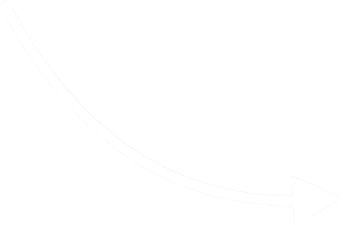
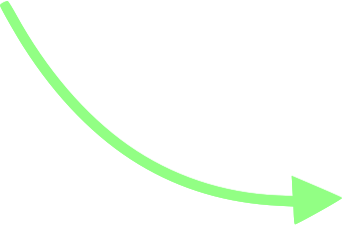
add slideshow, use better host images

Changed region(s): [[0.0, 0.0, 1.0, 0.9956]]

diff --git a/website/assets/js/pages/imagine/mdm-demo.page.js b/website/assets/js/pages/imagine/mdm-demo.page.js
@@ -3,7 +3,7 @@ parasails.registerPage('mdm-demo', {
   //  ║║║║║ ║ ║╠═╣║    ╚═╗ ║ ╠═╣ ║ ║╣
   //  ╩╝╚╝╩ ╩ ╩╩ ╩╩═╝  ╚═╝ ╩ ╩ ╩ ╩ ╚═╝
   data: {
-    demoStage: 2,
+    demoStage: 0,
     startingPositons: {
       fileOne: { top: 50, left: 50},
       fileTwo: { top: 200, left: 50},
@@ -13,6 +13,7 @@ parasails.registerPage('mdm-demo', {
       hostOne: 0,
       hostTwo: 0,
       hostThree: 0,
+      gitOps: 0,
     },
     dragElements:{
       fileOne: undefined,
@@ -34,6 +35,11 @@ parasails.registerPage('mdm-demo', {
     gameEndsAt: undefined,
     timeLeft: 25,
     showDeployingMsg: false,
+    formData: {},
+    formErrors: {},
+    formRules: {},
+    syncing: false,
+    cloudError: false,
   },
 
   //  ╦  ╦╔═╗╔═╗╔═╗╦ ╦╔═╗╦  ╔═╗
@@ -44,6 +50,9 @@ parasails.registerPage('mdm-demo', {
   },
   mounted: async function() {
     this.dragContainer = document.getElementById("dragContainer");
+    $('.carousel').carousel({
+      interval: 40000
+    })
   },
 
   //  ╦╔╗╔╔╦╗╔═╗╦═╗╔═╗╔═╗╔╦╗╦╔═╗╔╗╔╔═╗
@@ -150,7 +159,7 @@ parasails.registerPage('mdm-demo', {
       var data = event.dataTransfer.getData("text/plain");
       let fileToDisappear = document.getElementById(data);
       // fileToDisappear.style.animation = "blinkFade 3s linear";
-      if(data === 'fileOne'){
+      if(data === 'fileThree'){
         fileToDisappear.classList.add('deploying')
         this.counter.hostOne++;
       }
@@ -162,7 +171,7 @@ parasails.registerPage('mdm-demo', {
       var data = event.dataTransfer.getData("text/plain");
       let fileToDisappear = document.getElementById(data);
       // fileToDisappear.style.animation = "blinkFade 3s linear";
-      if(data === 'fileTwo'){
+      if(data === 'fileOne'){
         fileToDisappear.classList.add('deploying')
         this.counter.hostTwo++;
       }
@@ -174,7 +183,7 @@ parasails.registerPage('mdm-demo', {
       var data = event.dataTransfer.getData("text/plain");
       let fileToDisappear = document.getElementById(data);
       // fileToDisappear.style.animation = "blinkFade 3s linear";
-      if(data === 'fileThree'){
+      if(data === 'fileTwo'){
         fileToDisappear.classList.add('deploying')
         this.counter.hostThree++;
       }
@@ -191,18 +200,34 @@ parasails.registerPage('mdm-demo', {
       if(data === 'fileOne'){
         arrow = document.getElementById('arrowTwo');
         arrow.style.animation = "blinkFade 1s linear";
+        this.counter.gitOps++
       } else if(data === 'fileTwo') {
         arrow = document.getElementById('arrowThree');
         arrow.style.animation = "blinkFade 1s linear";
+        this.counter.gitOps++
       } else if(data === 'fileThree') {
         arrow = document.getElementById('arrowOne');
         arrow.style.animation = "blinkFade 1s linear";
+        this.counter.gitOps++;
       }
       // After the animation ends, remove the element from the DOM
       fileToDisappear.addEventListener('animationend', () => {
         fileToDisappear.parentNode.removeChild(fileToDisappear);
         this.showDeployingMsg = false;
       });
+      await this.isGameFinished();
     },
+    isGameFinished: async function() {
+      if(this.counter.gitOps > 2){
+        await setTimeout(()=>{
+          this.demoStage = 4;
+        }, 1000)
+      }
+    },
+    aaaa: function(argins) {
+      console.log('hi');
+      return;
+    }
+
   }
 });

diff --git a/website/assets/styles/pages/imagine/mdm-demo.less b/website/assets/styles/pages/imagine/mdm-demo.less
@@ -75,8 +75,8 @@
     right: 33%;
     img {
       height: 100px;
+      // filter: hue-rotate(160deg);
     }
-    filter: hue-rotate(160deg);
   }
 
   #arrowTwo {
@@ -89,17 +89,17 @@
     img {
       height: auto;
       width: 85px;
+      // filter: hue-rotate(90deg);
     }
-    filter: hue-rotate(90deg);
   }
 
   #arrowThree {
     opacity: 0;
-    filter: hue-rotate(-90deg);
     position: absolute;
     right: 33%;
     bottom: 115px;
     img {
+      // filter: hue-rotate(-90deg);
       height: 100px;
     }
   }
@@ -124,6 +124,17 @@
     top: 350px;
     left: 50px;
     cursor: pointer;
+  }
+  input {
+    padding: 16px;
+    border-radius: 12px;
+  }
+  input:focus-visible {
+    border: 1px solid @core-vibrant-blue;
+    outline: none;
+  }
+  input::placeholder {
+    color: #8B8FA2;
   }
   [purpose='timer'] {
     h4 {
@@ -162,7 +173,7 @@
     position: absolute;
     top: 50px;
     right: 50px;
-    filter: hue-rotate(160deg);
+    // filter: hue-rotate(160deg);
   }
   #hostTwo {
     width: 200px;
@@ -170,7 +181,7 @@
     position: absolute;
     top: 200px;
     right: 75px;
-    filter: hue-rotate(90deg);
+    // filter: hue-rotate(90deg);
   }
   #hostThree {
     width: 200px;
@@ -178,7 +189,7 @@
     position: absolute;
     top: 350px;
     right: 50px;
-    filter: hue-rotate(-90deg);
+    // filter: hue-rotate(-90deg);
   }
   #gitops {
     width: 100px;
@@ -188,12 +199,32 @@
     right: 350px;
     z-index: 3;
   }
+  .carousel-item {
+    max-width: 760px;
+  }
+  .carousel-item-next, .carousel-item-prev {
+    display: none;
+  }
   [purpose='mdm-demo-container'] {
     position: relative;
     border: 1px solid #515774;
-    width: 800px;
-    background-color: @bg-lt-gray;
-    height: 500px;
+    width: 1000px;
+    // background-color: @bg-lt-gray;
+    height: 700px;
+    border-radius: 8px;
+    img {
+      height: 100px;
+      width: auto;
+    }
+  }
+  [purpose='slideshow-container'] {
+    position: relative;
+    border: 1px solid #515774;
+    width: 1000px;
+    // padding-left: 120px;
+    // padding-right: 120px;
+    // background-color: @bg-lt-gray;
+    height: 700px;
     border-radius: 8px;
     img {
       height: 100px;
